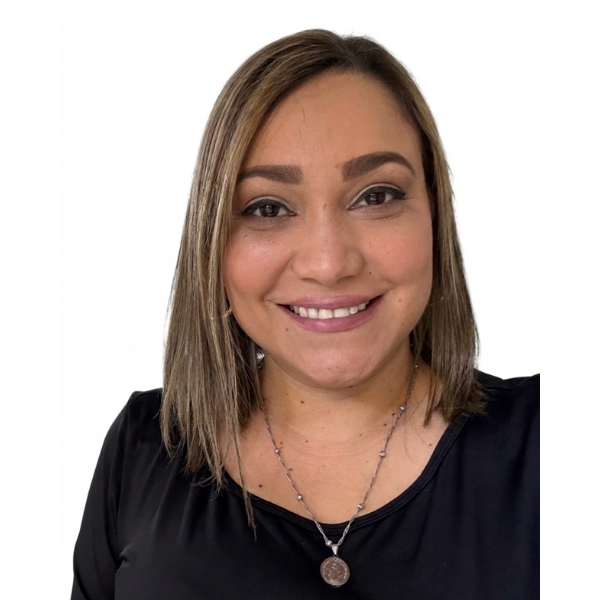
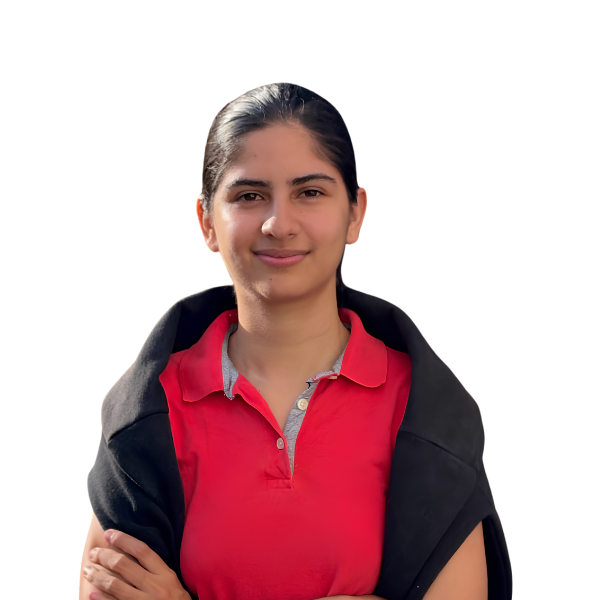
feat: add blog post and assets for June 2026 virtual event

diff --git a/src/data/posts/evento-baqjug-junio-2026-virtual.md b/src/data/posts/evento-baqjug-junio-2026-virtual.md
@@ -1,0 +1,63 @@
+---
+#preview
+title: 'BAQJUG Junio 2026: From Zero to Hero – Dominando Domain-Driven Design en Java'
+date: '2026-06-18'
+image: "/img/blog/evento-virtual-junio-2026.png"
+category:
+    - Evento
+categories:
+    - evento
+short: Una sesión virtual con Otavio Santana para ir desde los fundamentos de DDD hasta dominar sus patrones tácticos y estratégicos en el ecosistema Java, construyendo sistemas alineados al negocio, escalables y resilientes.
+
+#full details
+introTitle: BAQJUG Junio 2026 <br> <span class="mil-thin">From Zero to Hero:</span> Dominando Domain-Driven Design <span class="mil-thin">en Java</span>
+
+author:
+    name: "BAQJUG"
+
+gallery:
+    enabled: 0
+    items:
+        - image: /img/blog/evento-ddd-junio-2026.jpg
+          alt: "Evento Virtual BAQJUG Junio 2026 - Domain-Driven Design en Java"
+---
+
+En nuestra sesión virtual de junio 2026, Otavio Santana nos guía desde los fundamentos de Domain-Driven Design hasta el dominio de sus principios, con ejemplos reales y conclusiones aplicables sobre los retos de implementar DDD en proyectos Java.
+
+📅 **18 de Junio de 2026 – 12:00 PM GMT-5**
+🖥 **Evento Virtual**
+
+▶ **[Ver en YouTube](https://www.youtube.com/watch?v=c00nvXLLH7c)**
+
+---
+
+###### Sobre la charla
+
+Un recorrido que lleva al asistente desde cero hasta convertirse en un referente de Domain-Driven Design. La sesión cubre desde los conceptos base de DDD — servicios, entidades, repositorios — hasta sus patrones más avanzados, todo dentro del ecosistema Java. Tanto si estás empezando como si quieres profundizar, esta sesión entrega las herramientas para construir sistemas alineados al negocio, escalables y resilientes.
+
+Se exploran ejemplos del mundo real y casos prácticos sobre los retos de aplicar DDD, incluyendo inmutabilidad de entidades y la relevancia del diseño orientado al dominio en el desarrollo moderno. Al final de la sesión, tendrás claridad sobre los patrones tácticos y la mentalidad estratégica necesaria para diseñar software que genere impacto real.
+
+---
+
+###### Speaker
+
+**Otavio Santana** 🇧🇷 – Software Architect, Technology Strategist y Open Source Leader
+
+Otavio es un arquitecto de software galardonado, Java Champion, Oracle ACE Director, ganador del Eclipse Top Committer Award y múltiple ganador de los JCP Awards, incluyendo el Duke's Choice Award. Desde Java 8 ha contribuido a dar forma al ecosistema Java como Jakarta EE Specification Leader y miembro del JCP Executive Committee, participando en la evolución de los estándares del software empresarial y las tecnologías open source.
+
+Se dedica a empoderar organizaciones e ingenieros a través de estrategia tecnológica, arquitectura de software y buenas prácticas de código abierto, combinando liderazgo en la industria con experiencia práctica en construcción de sistemas escalables. Fuera de la tecnología, disfruta la historia, la economía, los viajes y los idiomas.
+
+---
+
+###### Temas cubiertos
+
+- Fundamentos de Domain-Driven Design (DDD) en el ecosistema Java
+- Servicios, entidades y repositorios en DDD
+- Inmutabilidad de entidades y su relevancia práctica
+- Patrones tácticos de DDD aplicados con código real
+- Mentalidad estratégica para diseñar software alineado al negocio
+- DDD en el desarrollo moderno: retos y soluciones
+
+---
+
+Una sesión virtual abierta a toda la comunidad Java hispanohablante, patrocinada por **BAQJUG**, **CaribeDev**, **ACM Uninorte**, **DevJVM** y **Giniem**.
